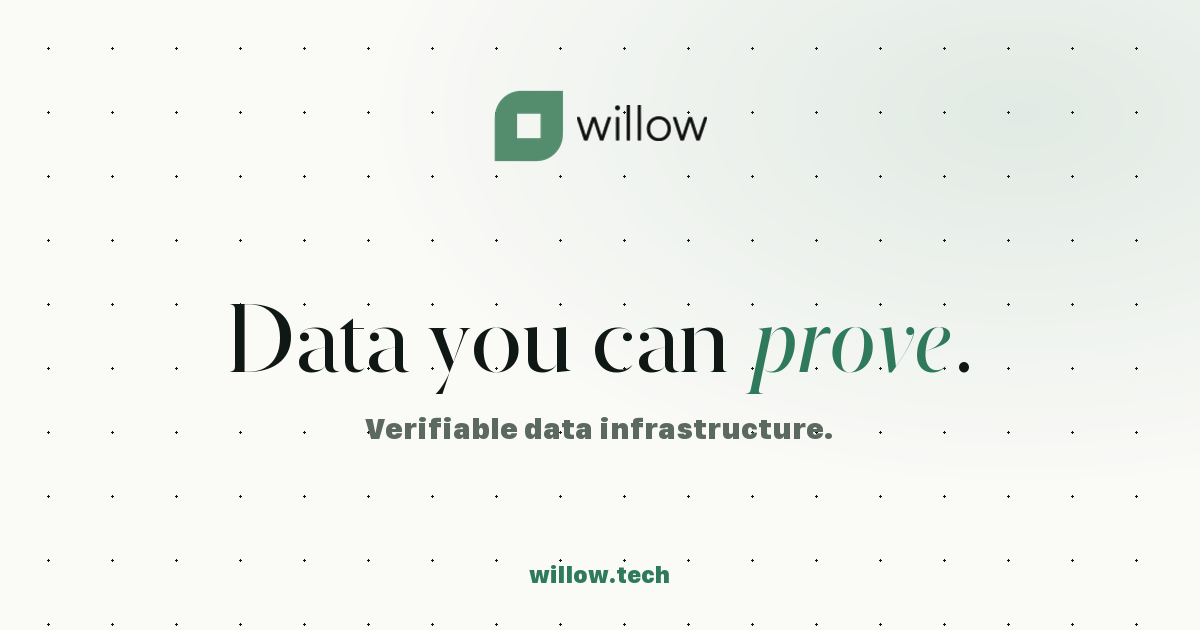
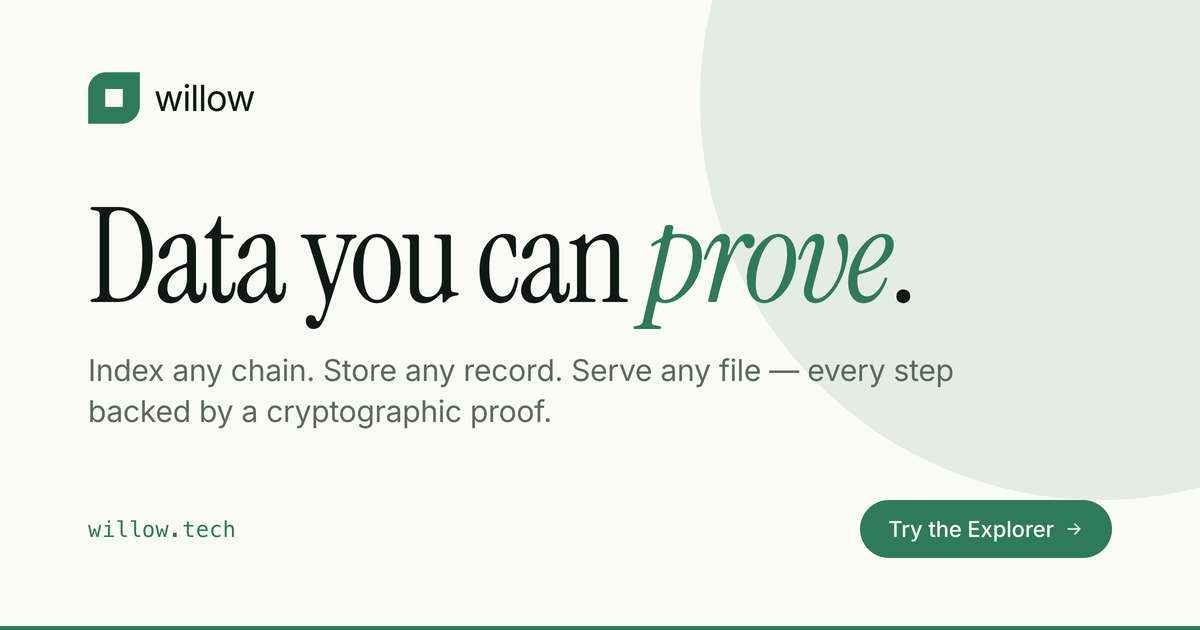
fix(og): cleaner cards + better metadata for social previews
OG image redesign:
- Drop the dot grid and the soft radial accent glow. Soft gradients
  get muddy after LinkedIn's lossy re-encoding; a bolder solid-color
  accent arc stays crisp.
- Render via Playwright (real browser font rendering) at 2x DPR,
  then Lanczos-downscale to 1200x630 — gives sharper text on
  LinkedIn, X, and iMessage previews.
- Add a real "Try the Explorer →" / "Read the post →" CTA pill
  in the bottom-right (OG checkers want a CTA element).

Metadata:
- Title: "Willow — Cryptographically verifiable data infrastructure"
  (39 → 56 chars, lands in the optimal 50-60 range).
- Description: rewrites to match the hero subhead exactly,
  93 → 118 chars (in the optimal 110-160 range).
- Add the missing twitter:title / twitter:description /
  twitter:url / twitter:domain meta tags.
- Trim the introducing-willow excerpt to 155 chars so it fits
  the OG description budget too.
- Prerender script extended to set per-post twitter tags.

diff --git a/index.html b/index.html
@@ -7,24 +7,28 @@
     <link rel="apple-touch-icon" href="/apple-touch-icon.png" sizes="180x180" />
     <meta name="viewport" content="width=device-width, initial-scale=1.0" />
     <meta name="theme-color" content="#2f7a5c" />
-    <title>Willow — Verifiable data infrastructure</title>
+    <title>Willow — Cryptographically verifiable data infrastructure</title>
     <meta
       name="description"
-      content="Willow indexes blockchain data, stores structured records, and serves files — every step backed by a cryptographic proof."
+      content="Index any chain. Store any record. Serve any file. Every step backed by a cryptographic proof you can verify yourself."
     />
-    <meta property="og:title" content="Willow — Verifiable data infrastructure" />
+    <meta property="og:title" content="Willow — Cryptographically verifiable data infrastructure" />
     <meta
       property="og:description"
-      content="Index any chain, store any record, serve any file — with a cryptographic proof at every step."
+      content="Index any chain. Store any record. Serve any file. Every step backed by a cryptographic proof you can verify yourself."
     />
     <meta property="og:type" content="website" />
     <meta property="og:url" content="https://willow.tech" />
     <meta property="og:image" content="https://willow.tech/og-image.png" />
     <meta property="og:image:width" content="1200" />
     <meta property="og:image:height" content="630" />
-    <meta property="og:image:alt" content="Willow — Verifiable data infrastructure" />
+    <meta property="og:image:alt" content="Willow — Cryptographically verifiable data infrastructure" />
     <meta name="twitter:card" content="summary_large_image" />
     <meta name="twitter:site" content="@willow_protocol" />
+    <meta name="twitter:domain" content="willow.tech" />
+    <meta name="twitter:url" content="https://willow.tech/" />
+    <meta name="twitter:title" content="Willow — Cryptographically verifiable data infrastructure" />
+    <meta name="twitter:description" content="Index any chain. Store any record. Serve any file. Every step backed by a cryptographic proof you can verify yourself." />
     <meta name="twitter:image" content="https://willow.tech/og-image.png" />
 
   </head>
